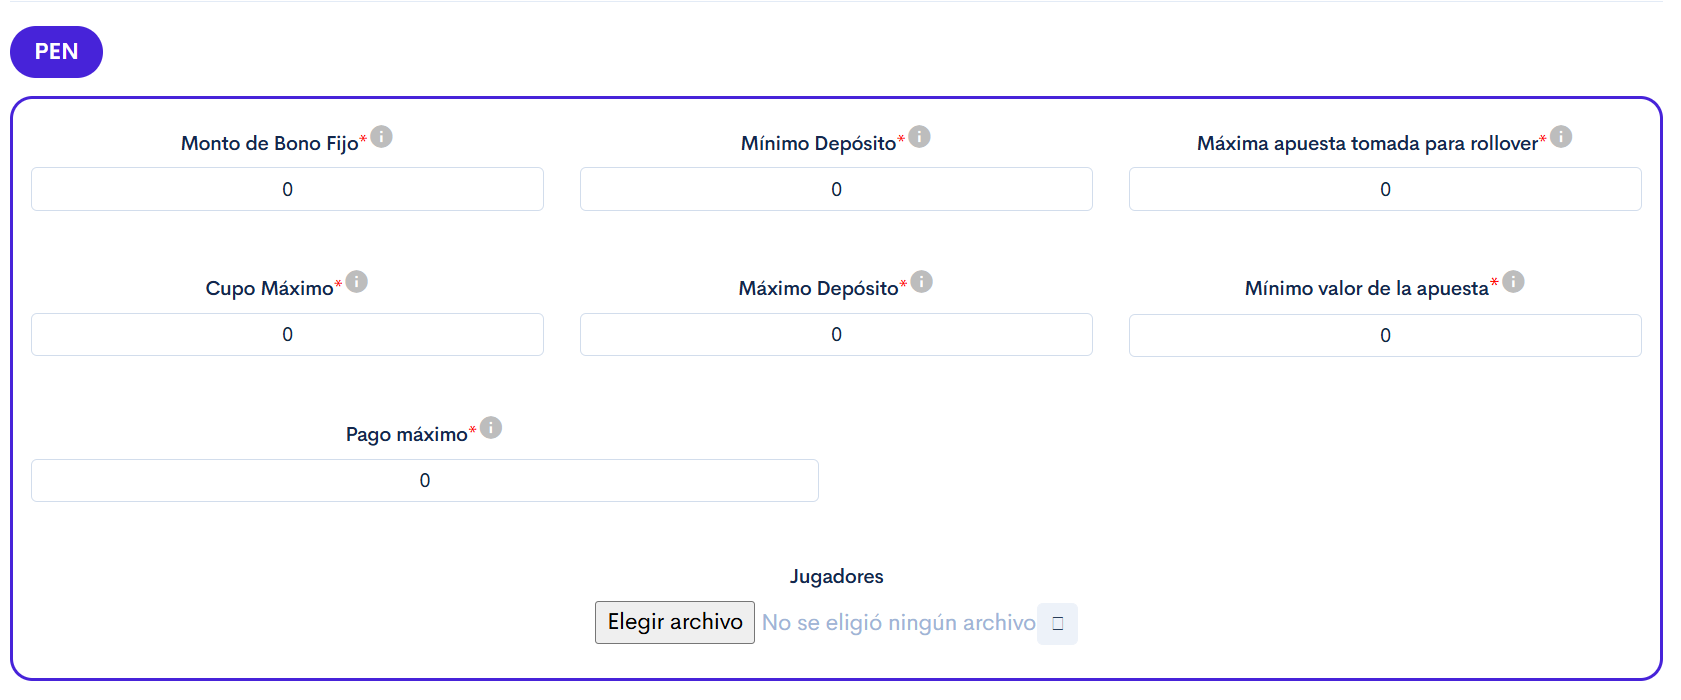
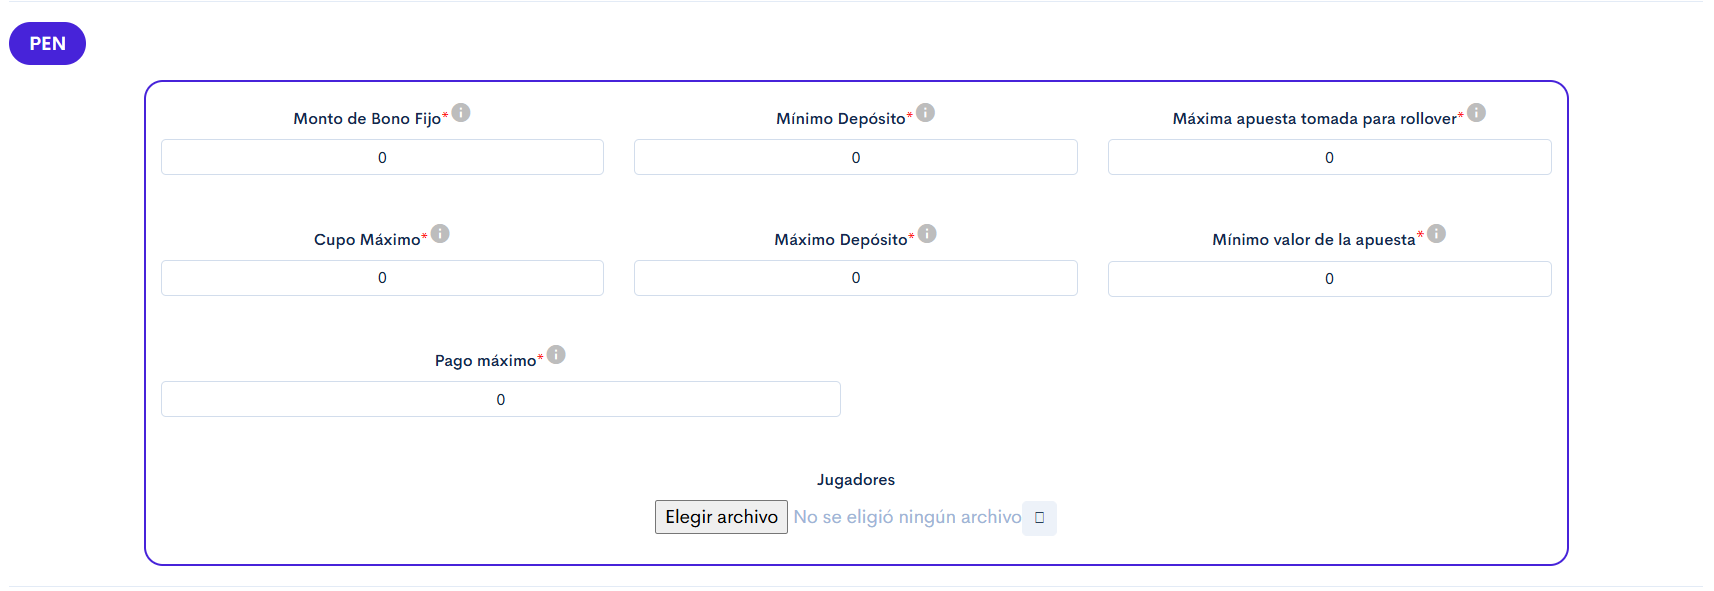
GITBOOK-708: change request with no subject merged in GitBook

diff --git a/Torneos y bonos/torneos-y-bonos./como-acceder-a-la-plataforma-./crear-eventos./crear-bono./bono-deposito./creacion-bono-deposito-para-digitain.md b/Torneos y bonos/torneos-y-bonos./como-acceder-a-la-plataforma-./crear-eventos./crear-bono./bono-deposito./creacion-bono-deposito-para-digitain.md
@@ -309,7 +309,7 @@ Para que el bono exija siempre la cantidad mínima configurada en **`Mínima can
 
 Al seleccionar la moneda correspondiente al país con el que se ingresó a la plataforma, se despliegan las siguientes configuraciones:
 
-<figure><img src="../../../../../.gitbook/assets/image (308).png" alt=""><figcaption><p>Figura #5: Captura de pantalla configuración moneda.</p></figcaption></figure>
+<figure><img src="../../../../../.gitbook/assets/image (309).png" alt=""><figcaption><p>Figura #5: Captura de pantalla configuración moneda.</p></figcaption></figure>
 
 <table data-search="false"><thead><tr><th width="122.9444580078125">Campo</th><th width="125.888916015625">Tipo</th><th>Descripción</th></tr></thead><tbody><tr><td><strong><code>Monto de bono fijo</code></strong></td><td>Numérico</td><td><p>Monto que recibe el usuario como saldo bono al realizar un depósito.</p><div data-gb-custom-block data-tag="hint" data-style="warning" class="hint hint-warning"><p><strong>Nota:</strong> Este campo está disponible únicamente cuando el campo <strong><code>Cálculo de bonificación</code></strong> tiene seleccionada la opción <strong>Bono Fijo</strong>.</p></div></td></tr><tr><td><strong><code>Mínimo depósito</code></strong></td><td>Numérico</td><td>Valor mínimo que debe depositar el usuario para acceder al bono.</td></tr><tr><td><strong><code>Máxima apuesta tomada para rollover</code></strong></td><td>Numérico</td><td><p>Monto máximo de una apuesta que se contabiliza para el rollover. Si el usuario apuesta un valor superior, el excedente no descuenta del rollover pendiente.</p><div data-gb-custom-block data-tag="hint" data-style="info" class="hint hint-info"><p><strong>Ejemplo:</strong> Con una máxima apuesta de <strong>$20</strong>, si el usuario realiza una apuesta de <strong>$50</strong>, solo se descuentan <strong>$20</strong> del rollover pendiente.</p></div></td></tr><tr><td><strong><code>Cupo máximo</code></strong></td><td>Numérico</td><td>Cantidad máxima de usuarios que pueden acceder a este bono.</td></tr><tr><td><strong><code>Máximo depósito</code></strong></td><td>Numérico</td><td>Valor máximo depositado que se considera para acceder al bono.</td></tr><tr><td><strong><code>Pago máximo</code></strong></td><td>Numérico</td><td>Monto máximo que puede recibir el usuario como saldo real al liberar este bono.</td></tr><tr><td><strong><code>Jugadores</code></strong></td><td>Archivo CSV</td><td>Archivo <a href="https://virtualsoft.gitbook.io/untitled/glosario#csv">CSV</a> con los ID de los usuarios que pueden acceder al bono.</td></tr></tbody></table>
 

diff --git a/Torneos y bonos/torneos-y-bonos./como-acceder-a-la-plataforma-./visualizar-eventos./ruletas..md b/Torneos y bonos/torneos-y-bonos./como-acceder-a-la-plataforma-./visualizar-eventos./ruletas..md
@@ -82,7 +82,7 @@ Permite visualizar la información completa de una ruleta.
 
 #### Visualización&#x20;
 
-<figure><img src="../../../.gitbook/assets/image (306) (1).png" alt=""><figcaption><p>Figura #2: Captura de pantalla Ranking Ruleta.</p></figcaption></figure>
+<figure><img src="../../../.gitbook/assets/image (307).png" alt=""><figcaption><p>Figura #2: Captura de pantalla Ranking Ruleta.</p></figcaption></figure>
 
 ***
 

diff --git a/Torneos y bonos/torneos-y-bonos./como-acceder-a-la-plataforma-./crear-eventos./crear-torneo/README.md b/Torneos y bonos/torneos-y-bonos./como-acceder-a-la-plataforma-./crear-eventos./crear-torneo/README.md
@@ -15,7 +15,7 @@ description: >-
 
 ### &#x20;2. visualización general
 
-<figure><img src="../../../../.gitbook/assets/image (313).png" alt=""><figcaption><p>Figura #1: Captura de pantalla sección crear torneo.</p></figcaption></figure>
+<figure><img src="../../../../.gitbook/assets/image (314).png" alt=""><figcaption><p>Figura #1: Captura de pantalla sección crear torneo.</p></figcaption></figure>
 
 ***
 
